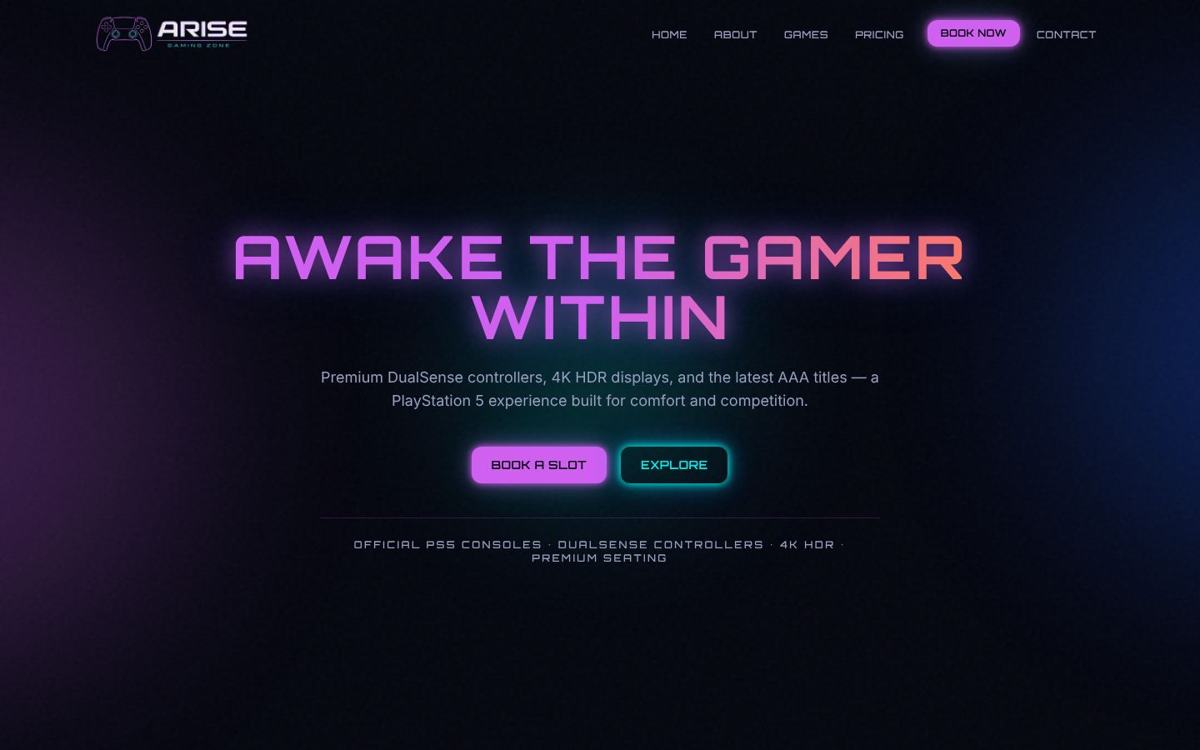
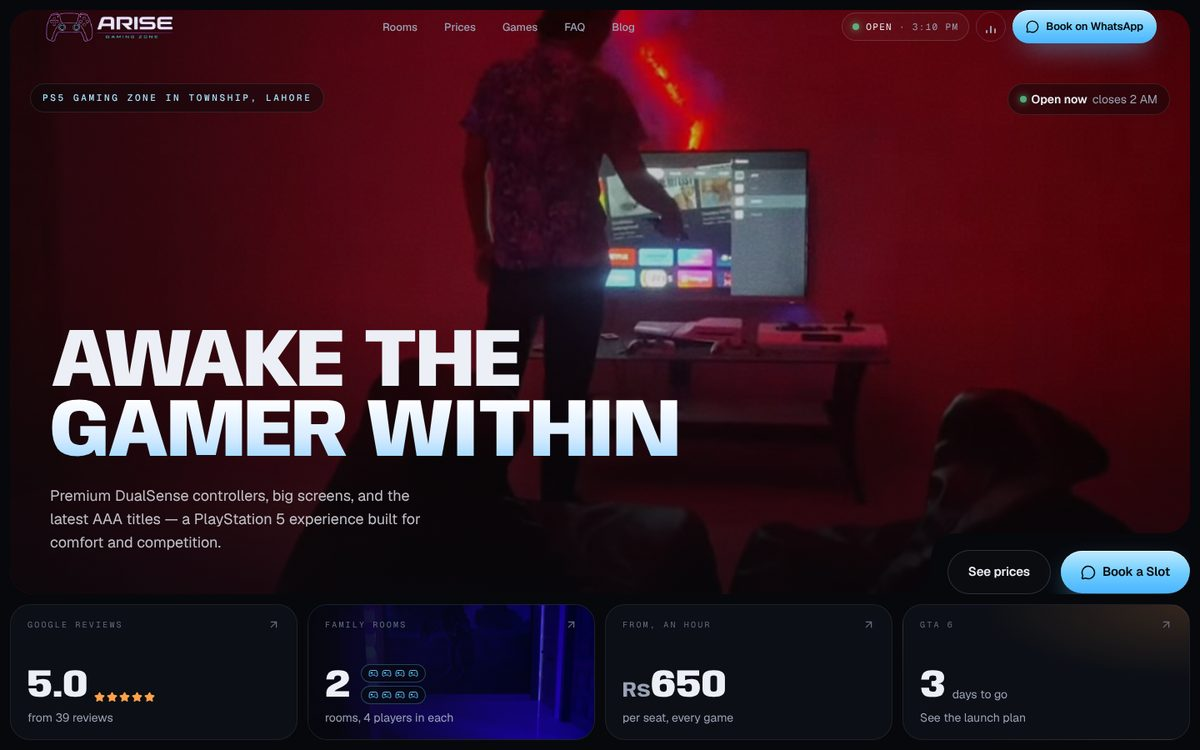
Link portfolio cards to the clients' own domains
ARISE, Zubair Plumbing and ruhbyhs now open their real domains instead of
vercel.app addresses, with fresh screenshots.

Claude-Session: https://claude.ai/code/session_013eJk2oz8ptTiWmKkeWjpbQ

diff --git a/src/app/components/Portfolio.tsx b/src/app/components/Portfolio.tsx
@@ -5,7 +5,7 @@ const work = [
     name: 'ARISE Gaming Zone',
     kind: 'Gaming lounge · Lahore',
     desc: 'A booking-led site for a PS5 lounge, with game pages built to be found in search.',
-    url: 'https://arise-gz.vercel.app',
+    url: 'https://www.arisegaming.zone',
     img: '/portfolio/arise.jpg',
   },
   {
@@ -26,14 +26,14 @@ const work = [
     name: 'Zubair Plumbing Services',
     kind: 'Local service · Lahore',
     desc: 'A 24/7 plumber’s site built around one-tap calls and WhatsApp enquiries.',
-    url: 'https://zubairplumbing.vercel.app',
+    url: 'https://www.zplumbings.online',
     img: '/portfolio/zubair.jpg',
   },
   {
     name: 'ruhbyhs',
     kind: 'Brand site · Luxury perfume',
     desc: 'A quiet, editorial storefront with a cinematic intro for a perfume label.',
-    url: 'https://v0-ruh-by-hs.vercel.app',
+    url: 'https://www.ruhbyhs.com',
     img: '/portfolio/ruh.jpg',
   },
 ];
